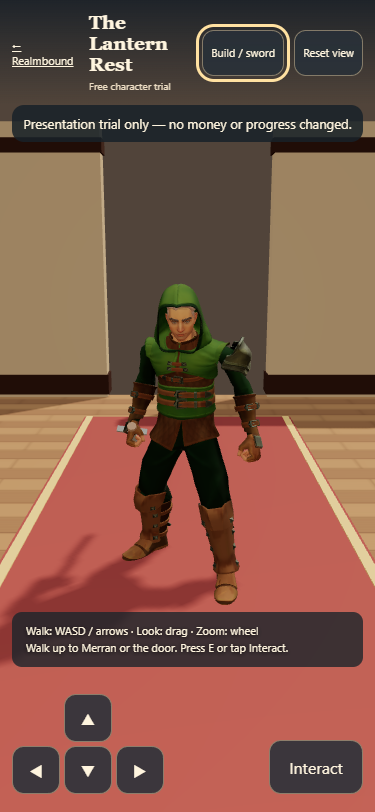
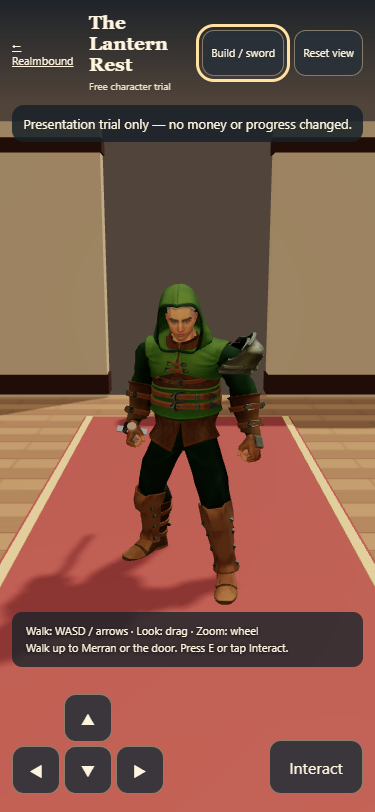
Add real arm and torso volume to imported character trial

diff --git a/experiments/realmbound-3d/asset-trial.js b/experiments/realmbound-3d/asset-trial.js
@@ -2,12 +2,20 @@
 (()=>{'use strict';
  if(new URLSearchParams(location.search).get('characters')!=='quaternius')return;
  const T=window.THREE,loader=new T.GLTFLoader(),base='assets/quaternius/';
- const api=window.RealmTrialAssets={ready:false,error:null,actors:[],build:"broad",setBuild(build){if(!["original","broad"].includes(build))return;this.build=build;for(const a of this.actors)a.outfit.scale.set(build==="broad"?1.18:1,1,build==="broad"?1.12:1);},update(dt,reduced,walking,talking){for(const a of this.actors){const name=a.keeper?(talking?'Idle_Talking_Loop':'Idle_Loop'):(walking?'Walk_Loop':'Idle_Loop');if(name!==a.current){const next=a.actions[name];if(next){next.reset().fadeIn(.18).play();if(a.current)a.actions[a.current].fadeOut(.18);a.current=name;}}a.mixers.forEach(m=>m.update(reduced?0:dt));}}};
+ const api=window.RealmTrialAssets={ready:false,error:null,actors:[],build:"broad",setBuild(build){if(!["original","wide","broad"].includes(build))return;this.build=build;for(const a of this.actors){a.outfit.scale.set(build!=="original"?1.18:1,1,build!=="original"?1.12:1);for(const m of a.bodyMeshes)m.geometry=build==="broad"?m.userData.fullerGeometry:m.userData.originalGeometry;}},update(dt,reduced,walking,talking){for(const a of this.actors){const name=a.keeper?(talking?'Idle_Talking_Loop':'Idle_Loop'):(walking?'Walk_Loop':'Idle_Loop');if(name!==a.current){const next=a.actions[name];if(next){next.reset().fadeIn(.18).play();if(a.current)a.actions[a.current].fadeOut(.18);a.current=name;}}a.mixers.forEach(m=>m.update(reduced?0:dt));}}};
  function headOnly(scene){scene.traverse(m=>{if(!m.isSkinnedMesh||!m.name.includes('SuperHero'))return;const geo=m.geometry.clone(),idx=geo.index,ji=geo.attributes.skinIndex,jw=geo.attributes.skinWeight,keep=[];function head(i){let w=0;for(let k=0;k<4;k++){const j=ji.array[i*4+k];if(['Head','neck_01'].includes(m.skeleton.bones[j]?.name))w+=jw.array[i*4+k];}return w>.65;}for(let i=0;i<idx.count;i+=3){const a=idx.getX(i),b=idx.getX(i+1),c=idx.getX(i+2);if(head(a)&&head(b)&&head(c))keep.push(a,b,c);}geo.setIndex(keep);m.geometry=geo;});}
+
+ // Add cross-section volume in each weighted bone's bind space. Bone lengths and pivots are unchanged.
+ function fullerBody(scene){const meshes=[];scene.traverse(m=>{if(!m.isSkinnedMesh)return;const original=m.geometry,geo=original.clone(),p=geo.attributes.position,joints=geo.attributes.skinIndex,weights=geo.attributes.skinWeight,inv=m.skeleton.boneInverses,rest=inv.map(v=>v.clone().invert()),v=new T.Vector3(),q=new T.Vector3(),delta=new T.Vector3(),sum=new T.Vector3();
+  for(let i=0;i<p.count;i++){v.fromBufferAttribute(p,i).applyMatrix4(m.bindMatrix);sum.set(0,0,0);for(let k=0;k<4;k++){const j=joints.array[i*4+k],w=weights.array[i*4+k],name=m.skeleton.bones[j]?.name||'';if(!w)continue;let sx=1,sz=1;if(/^upperarm_/.test(name))sx=sz=1.55;else if(/^lowerarm_/.test(name))sx=sz=1.45;else if(/^hand_/.test(name))sx=sz=1.08;else if(/^spine_/.test(name)){sx=1.22;sz=1.30;}else if(name==='pelvis'){sx=1.06;sz=1.10;}else continue;
+   q.copy(v).applyMatrix4(inv[j]);delta.set(q.x*(sx-1),0,q.z*(sz-1));const e=rest[j].elements,x=delta.x,y=delta.y,z=delta.z;delta.set(e[0]*x+e[4]*y+e[8]*z,e[1]*x+e[5]*y+e[9]*z,e[2]*x+e[6]*y+e[10]*z);sum.addScaledVector(delta,w);}
+   q.copy(v).add(sum).applyMatrix4(m.bindMatrixInverse);p.setXYZ(i,q.x,q.y,q.z);}
+  p.needsUpdate=true;geo.computeVertexNormals();geo.computeBoundingBox();geo.computeBoundingSphere();m.userData.originalGeometry=original;m.userData.fullerGeometry=geo;meshes.push(m);
+ });return meshes;}
  async function load(){const r=window.__rb3d;if(!r){setTimeout(load,20);return;}document.querySelector('#loading').hidden=false;document.querySelector('#loading').textContent='Trying the new travellers…';try{
  const [ranger,peasant,head1,head2,hair1,hair2,animations]=await Promise.all(['Male_Ranger.glb','Male_Peasant.glb','Base_Male.glb','Base_Male.glb','Hair.glb','Hair.glb','Animations.glb'].map(f=>loader.loadAsync(base+f)));
  for(const [original,outfit,head,hair,keeper]of [[r.hero,ranger,head1,hair1,false],[r.keeper,peasant,head2,hair2,true]]){
-  headOnly(head.scene);head.scene.traverse(m=>{if(m.isMesh&&m.name.includes("Eyebrows"))m.material.color.setHex(keeper?0x7e7770:0x50372d);});hair.scene.traverse(m=>{if(m.isMesh)m.material=new T.MeshStandardMaterial({color:keeper?0x7e7770:0x50372d,roughness:.9});});const visual=new T.Group();visual.name='quaternius-character';visual.add(outfit.scene,head.scene,hair.scene);
+  const bodyMeshes=fullerBody(outfit.scene);headOnly(head.scene);head.scene.traverse(m=>{if(m.isMesh&&m.name.includes("Eyebrows"))m.material.color.setHex(keeper?0x7e7770:0x50372d);});hair.scene.traverse(m=>{if(m.isMesh)m.material=new T.MeshStandardMaterial({color:keeper?0x7e7770:0x50372d,roughness:.9});});const visual=new T.Group();visual.name='quaternius-character';visual.add(outfit.scene,head.scene,hair.scene);
   // All parts use the same named humanoid rig. Separate mixers preserve each part's skin binding.
   const parts=[outfit.scene,head.scene,hair.scene],mixers=parts.map(p=>new T.AnimationMixer(p)),actions={};
   for(const name of ['Idle_Loop','Walk_Loop','Idle_Talking_Loop']){const clip=animations.animations.find(c=>c.name===name);if(!clip)throw Error('Missing animation '+name);actions[name]=mixers.map(m=>m.clipAction(clip));}
@@ -15,9 +23,9 @@
   original.children.forEach(c=>c.visible=false);original.add(visual);visual.scale.setScalar(.93);visual.rotation.y=0;
   const actionGroups={};for(const [n,aa]of Object.entries(actions))actionGroups[n]={reset(){aa.forEach(a=>a.reset());return this;},fadeIn(t){aa.forEach(a=>a.fadeIn(t));return this;},fadeOut(t){aa.forEach(a=>a.fadeOut(t));return this;},play(){aa.forEach(a=>a.play());return this;}};
   const hand=outfit.scene.getObjectByName('hand_r'),weapon=new T.Group();weapon.name='trial-held-sword';if(hand){hand.add(weapon);weapon.rotation.set(Math.PI/2,0,0);weapon.position.set(0,.035,0);const steel=new T.MeshStandardMaterial({color:0xb7c8ce,metalness:.6,roughness:.35}),leather=new T.MeshStandardMaterial({color:0x604332});for(const [g,m,y]of [[new T.BoxGeometry(.045,.5,.015),steel,-.29],[new T.BoxGeometry(.16,.035,.035),steel,-.035],[new T.CylinderGeometry(.025,.025,.12,8),leather,.045]]){const p=new T.Mesh(g,m);p.position.y=y;p.castShadow=true;weapon.add(p);}weapon.visible=!keeper;}
-  actionGroups.Idle_Loop.play();mixers.forEach(m=>m.update(0));api.actors.push({keeper,visual,mixers,actions:actionGroups,current:'Idle_Loop',weapon,outfit:outfit.scene,head:head.scene});
+  actionGroups.Idle_Loop.play();mixers.forEach(m=>m.update(0));api.actors.push({keeper,visual,mixers,bodyMeshes,actions:actionGroups,current:'Idle_Loop',weapon,outfit:outfit.scene,head:head.scene});
  }
- api.setBuild(new URLSearchParams(location.search).get('build')==='original'?'original':'broad');api.ready=true;const button=document.querySelector('#outfits');button.textContent='Build / sword';button.setAttribute('aria-label','Compare character builds or show and hide sword');button.onclick=()=>{if(r.state.dialogue)return;r.dialogue.play([['Merran','Try the two builds here. Your height stays the same.']],i=>{if(i===0)api.setBuild('broad');if(i===1)api.setBuild('original');if(i===2)api.actors[0].weapon.visible=!api.actors[0].weapon.visible;},{choices:['Broader build','Original build','Show / hide sword']});};document.querySelector('header span').textContent='Free character trial';document.querySelector('#loading').hidden=true;
+ const requestedBuild=new URLSearchParams(location.search).get('build');api.setBuild(['original','wide'].includes(requestedBuild)?requestedBuild:'broad');api.ready=true;const button=document.querySelector('#outfits');button.textContent='Build / sword';button.setAttribute('aria-label','Compare character builds or show and hide sword');button.onclick=()=>{if(r.state.dialogue)return;r.dialogue.play([['Merran','Try a fuller build, or compare it with the earlier ones. Your height stays the same.']],i=>{if(i===0)api.setBuild('broad');if(i===1)api.setBuild('wide');if(i===2)api.setBuild('original');if(i===3)api.actors[0].weapon.visible=!api.actors[0].weapon.visible;},{choices:['Fuller build','Previous build','Original build','Show / hide sword']});};document.querySelector('header span').textContent='Free character trial';document.querySelector('#loading').hidden=true;
  }catch(e){api.error=String(e);document.querySelector('#loading').textContent='Character comparison could not load. Reload without ?characters=quaternius for the original trial.';console.error(e);}}
  load();
 })();

diff --git a/experiments/realmbound-3d/assets/quaternius/README.md b/experiments/realmbound-3d/assets/quaternius/README.md
@@ -23,3 +23,6 @@ Tests: `node tests/realmbound-3d-assets.cjs http://localhost:8766`. Screenshots 
 
 ## Proportion comparison (Evan, 2026-10-10)
 The default imported build now widens each clothed outfit/skeleton by 18% and adds 12% depth, preserving vertical scale and the separate head/hair dimensions. The weapon follows the broadened hand skeleton. This is a reversible whole-body proportion preview, not a sculpted anatomy or armour-fitting pass. The in-world Build / sword menu selects Broader build or Original build; ?characters=quaternius&build=original opens the previous proportions directly. Fixed-pose measured shoulder span grew from .355m to .417m, with identical head and foot elevations. Front/profile before-after and broad in-room screenshots use the same camera and pose. Reduced-motion startup now evaluates an idle pose before freezing, avoiding a T-pose.
+
+## Fuller arms and torso (second review)
+Evan still found the arms and bodies small after the width-only pass. Fuller build now applies weighted mesh cross-section changes in each arm/spine bone's bind space before animation: upper arms 1.55x radius, forearms 1.45x, hands 1.08x, torso 1.22x width and 1.30x depth, pelvis 1.06x width/1.10x depth, blended by each vertex's original skin weights. Bone lengths/pivots, weights, indices and head/hair geometry stay unchanged. The same deformation applies to skin, sleeves, bracers, torso clothing and pauldron meshes. Normal/bounds data are recomputed. This is a procedural volume prototype, not a finished anatomical sculpt. Source geometry remains untouched; the menu selects Fuller build, Previous build (width-only), or Original build, plus the sword toggle. Use &build=wide for the previous width-only pass. Matched-pose evidence is in volume-*.png; movement, rollback, actual arm/torso vertex changes and skin binding are checked in the asset suite. No paid assets or production edits.

diff --git a/docs/COMMS.md b/docs/COMMS.md
@@ -37,6 +37,11 @@ from each ticket go in DEVELOPMENT-PATH.md Part 4 (a line each).
 ## Messages
 
 ### 2026-10-10, Codex to all
+Evan still found the imported arms/body too small. PR #159 adds Fuller build: weighted mesh volume around arm/spine bones, not more bone spacing. Head/height/pivots unchanged; sleeves/bracers/chest follow the same shape changes. Previous build and Original build remain reversible in-world. Evidence: docs/screenshots/realmbound-3d/volume-*.png. 69 asset checks pass, including real arm/torso vertex changes, original geometry restoration, walking and held sword. Prototype volume deformation, not a finished sculpt. No purchases, Godot or production/save changes.
+
+
+
+### 2026-10-10, Codex to all
 Evan found the imported people scrawny. PR #159 now defaults to a reversible broader build (18% width, 12% depth, unchanged height and face proportions); Build / sword compares both in-world. Matched-pose evidence is in docs/screenshots/realmbound-3d/build-*.png. Measured shoulders .355m -> .417m; head/foot elevations unchanged. Reduced-motion initial T-pose fixed. No paid assets, Godot, live-game or save edits.
 
 

diff --git a/START-HERE.md b/START-HERE.md
@@ -105,6 +105,8 @@ out, the ticket factory in [docs/DEVELOPMENT-PATH.md](docs/DEVELOPMENT-PATH.md) 
 
 ## Session log (newest first; one or two lines each)
 
+- **2026-10-10, Codex:** PR #159: fuller arm/torso mesh volume with unchanged bone lengths/head, reversible earlier builds, matched volume evidence and 69 asset checks. No purchases, Godot or production/save changes.
+
 - **2026-10-10, Codex:** PR #159: broader imported-character build at unchanged height/head size, reversible comparison menu, matched front/profile/room evidence and reduced-motion startup fix. No purchases or production changes.
 
 - **2026-10-10, Codex:** PR #159 now includes an opt-in free Quaternius CC0 rigged-character comparison in the 3D inn, with authored walking/talking and bone-mounted sword. No purchase or live game/save/Godot changes; 17 suites and original 146 trial checks pass; dedicated imported-asset checks and screenshots included.
